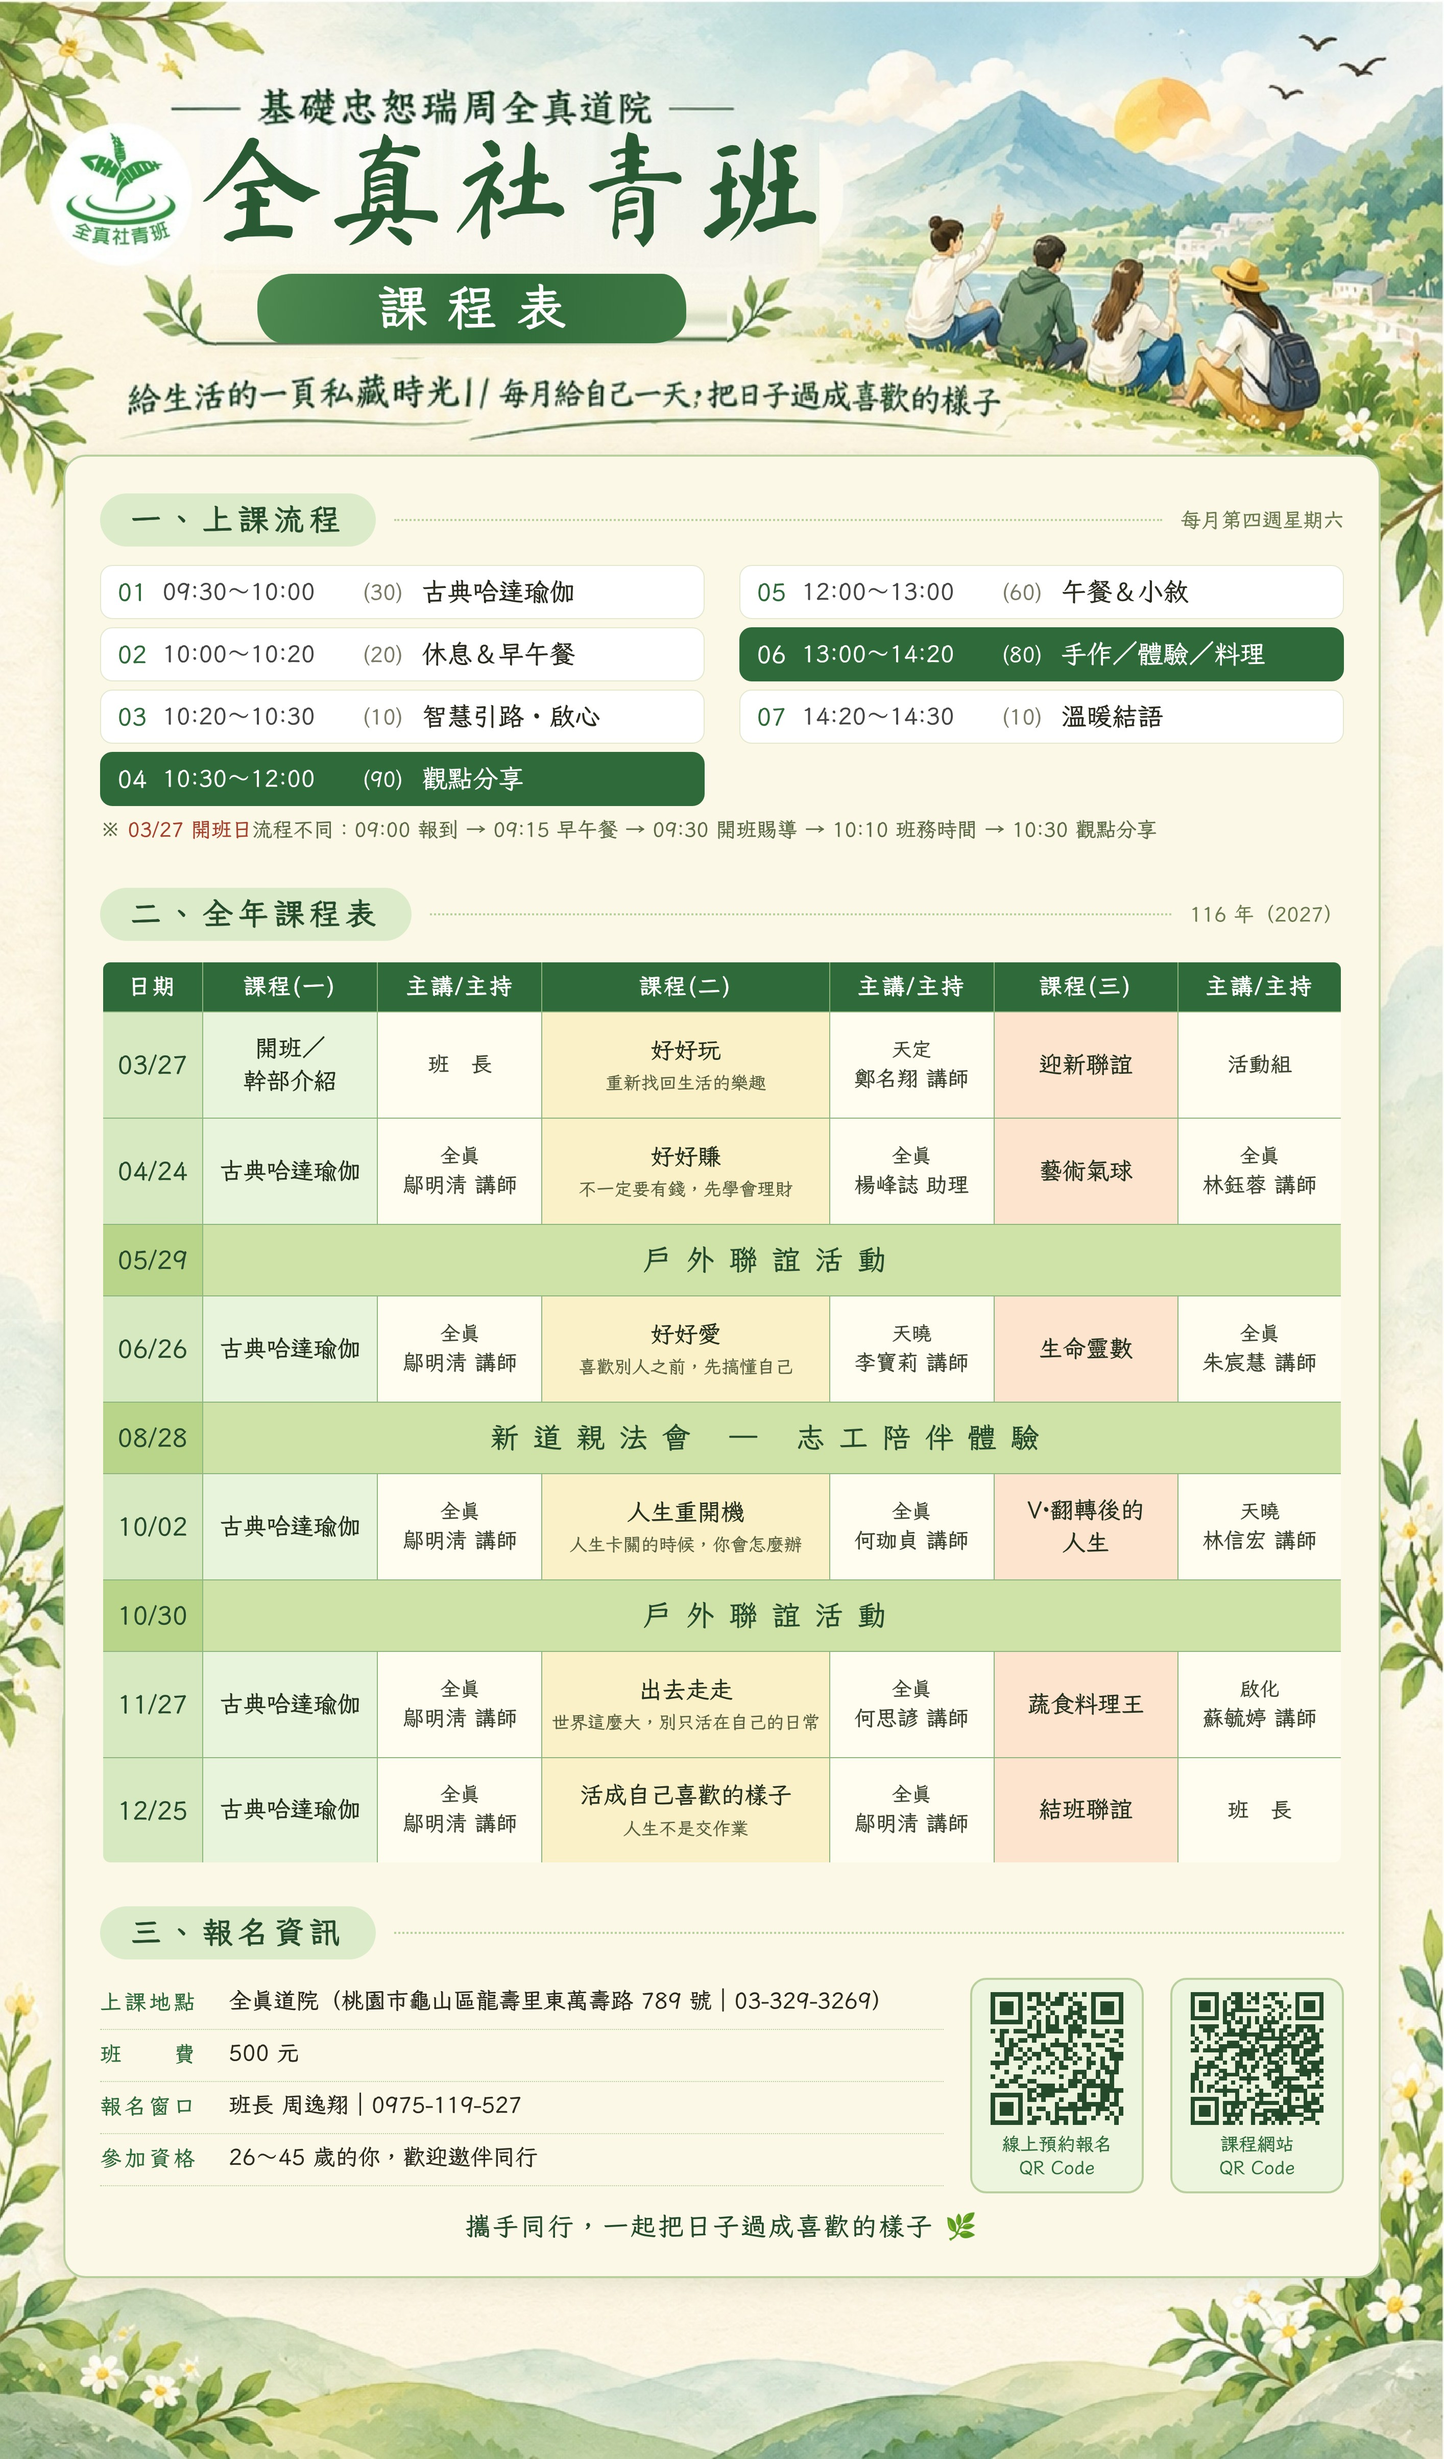
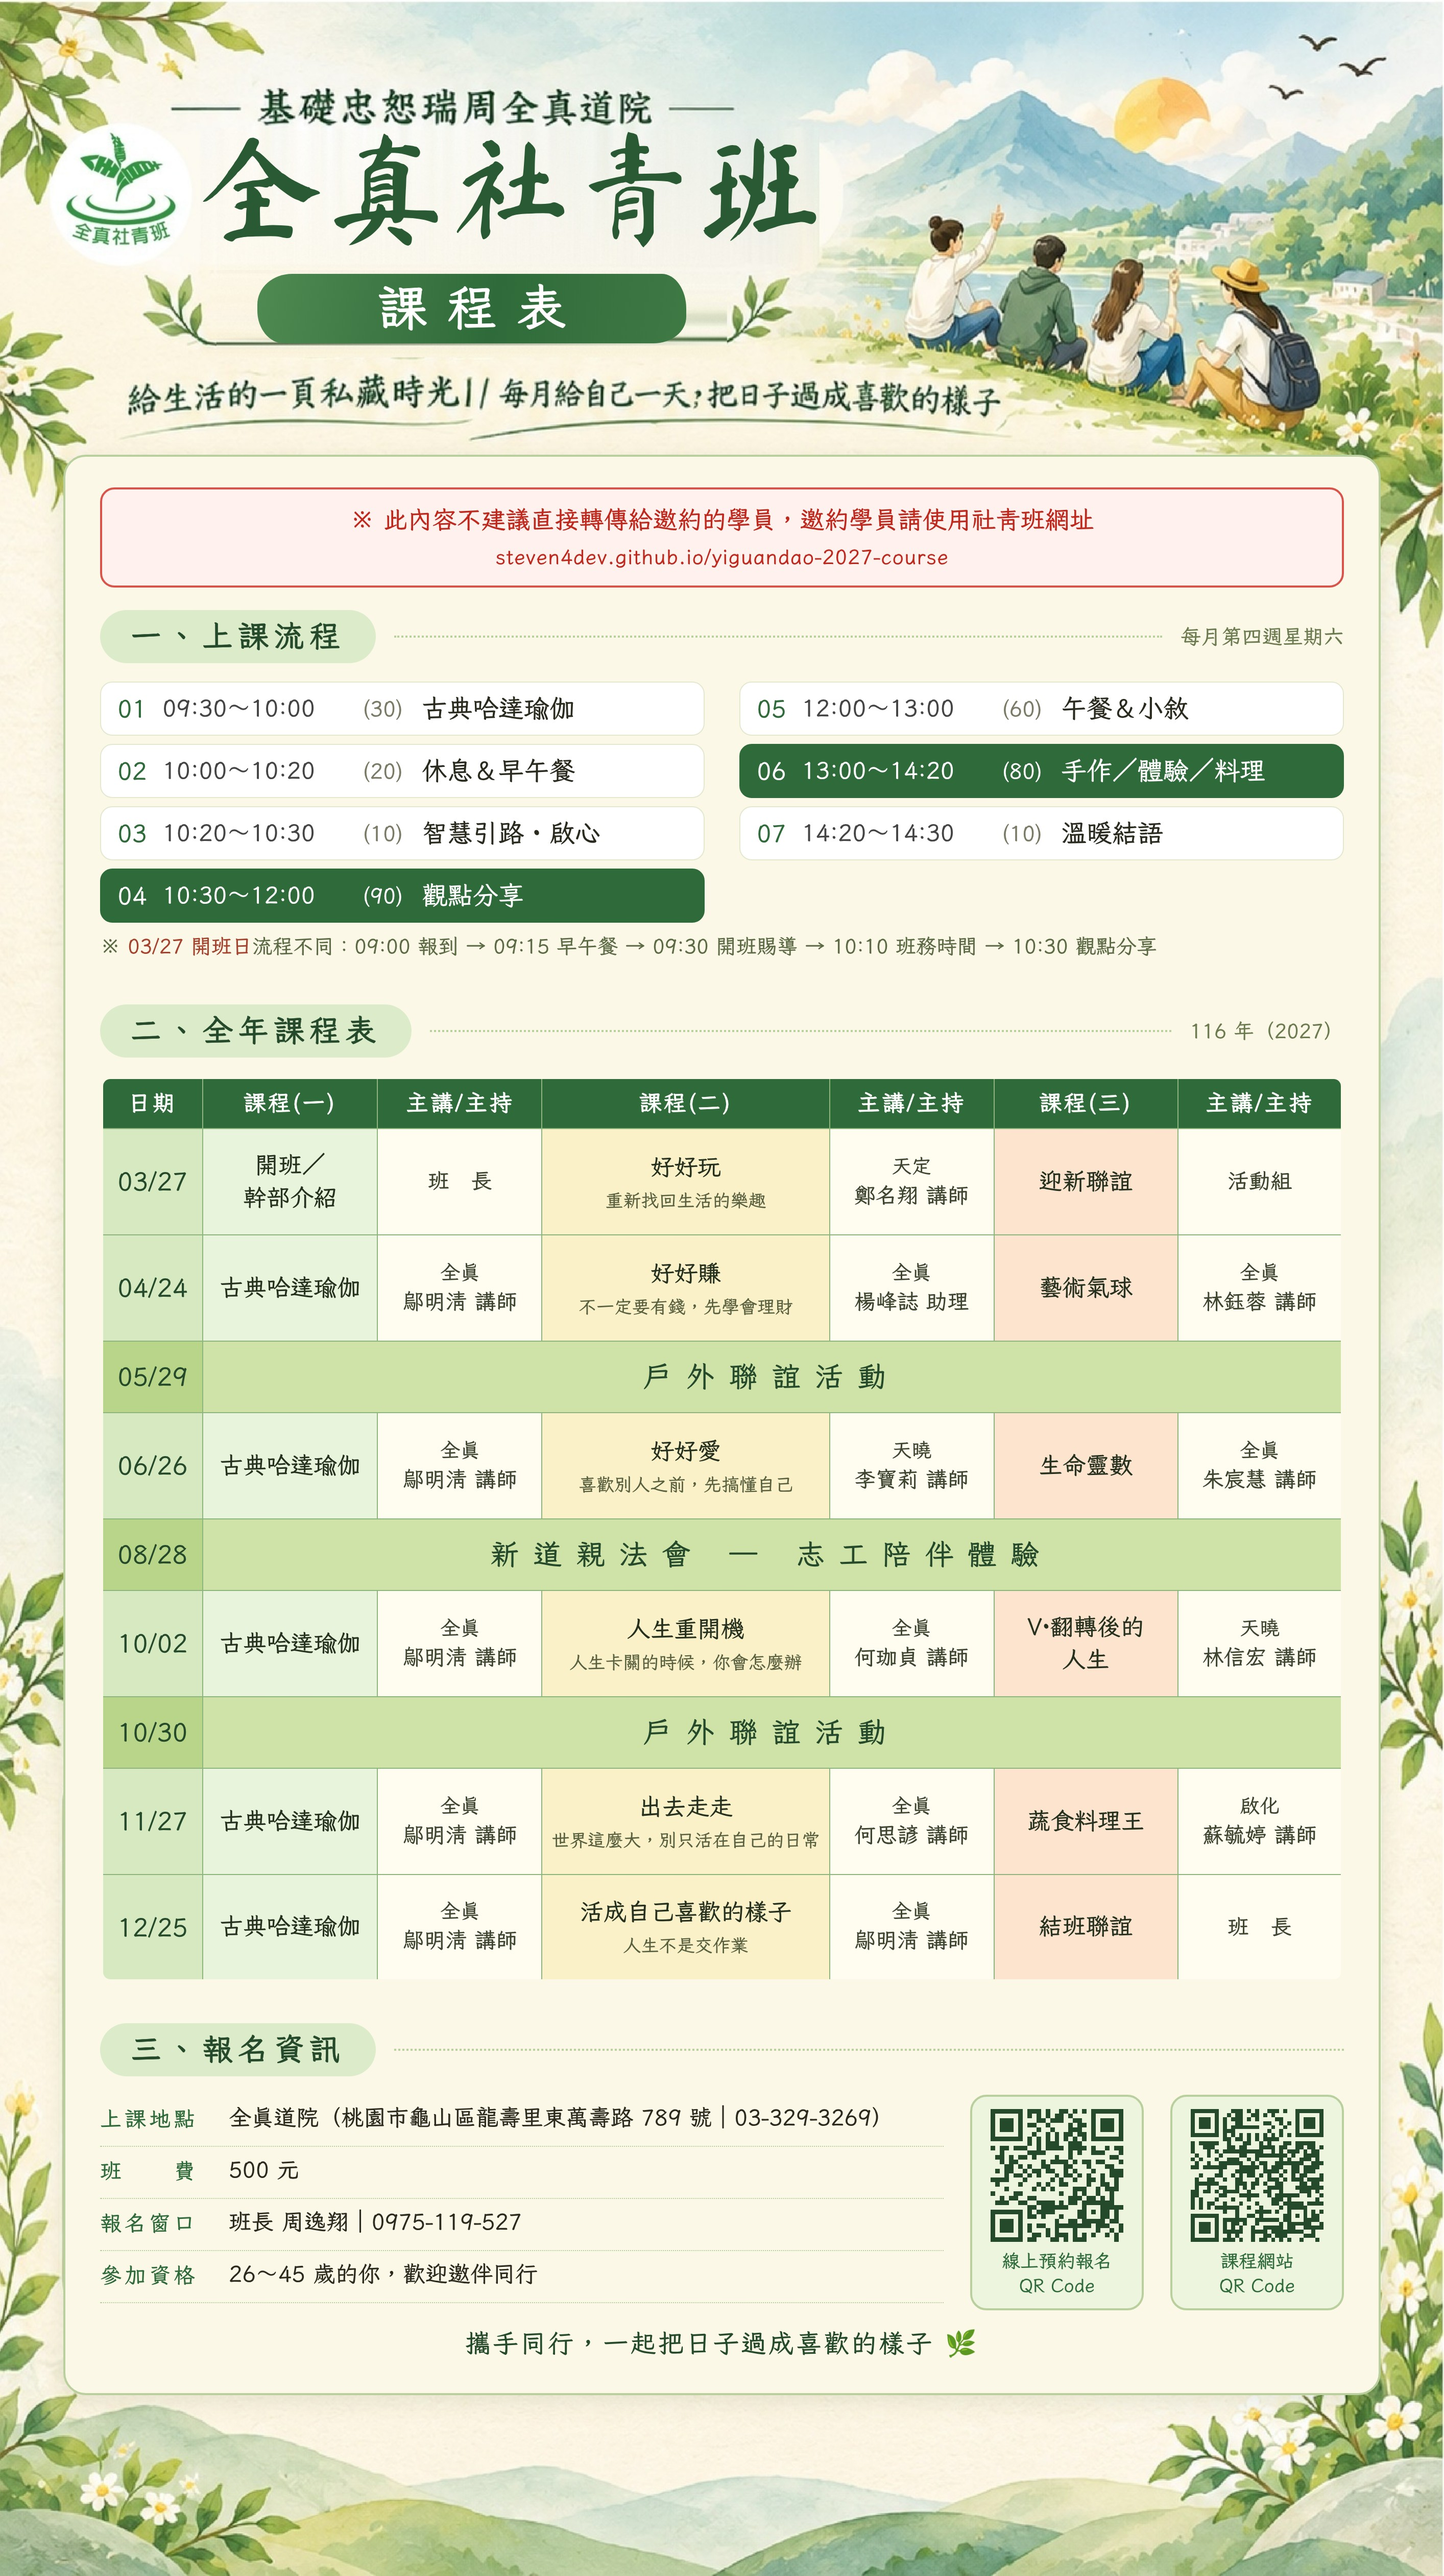
課程分享卡：圖片內也加上紅字提醒（不建議直接轉傳給邀約學員）
Claude-Session: https://claude.ai/code/session_01CYjxt9SHknbooV7BG34GCT

diff --git a/card/index.html b/card/index.html
@@ -8,7 +8,7 @@
 <meta property="og:type" content="website">
 <meta property="og:title" content="116 年（2027）全真社青班｜上課流程＋課程表">
 <meta property="og:description" content="每月給自己一天，攜手把日子過成喜歡的樣子。">
-<meta property="og:image" content="https://steven4dev.github.io/yiguandao-2027-course/card/course-card.jpg?v=4">
+<meta property="og:image" content="https://steven4dev.github.io/yiguandao-2027-course/card/course-card.jpg?v=5">
 <style>
   :root{--bg:#f4f1e4;--fg:#2b3a26;--muted:#66745a}
   @media (prefers-color-scheme: dark){:root{--bg:#1d241b;--fg:#e6ecd9;--muted:#a3b293}}
@@ -28,7 +28,7 @@
   <h1>116 年（2027）全真社青班 上課流程＋課程表</h1>
   <p class="warn">※ 此內容不建議直接轉傳給邀約的學員。邀約學員請使用社青班網址：<a href="https://steven4dev.github.io/yiguandao-2027-course/">https://steven4dev.github.io/yiguandao-2027-course/</a></p>
   <p>手機：長按圖片 → 儲存圖片或分享給朋友。電腦：在圖片上按右鍵另存。</p>
-  <img src="course-card.jpg?v=4" alt="116 年全真社青班上課流程與課程表分享卡">
+  <img src="course-card.jpg?v=5" alt="116 年全真社青班上課流程與課程表分享卡">
 </main>
 </body>
 </html>
